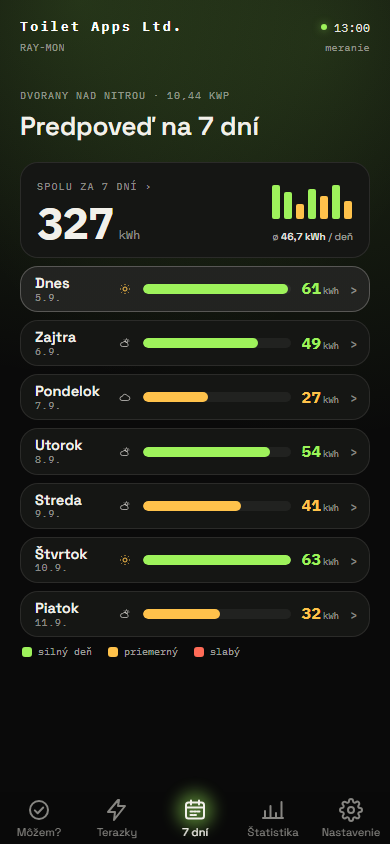
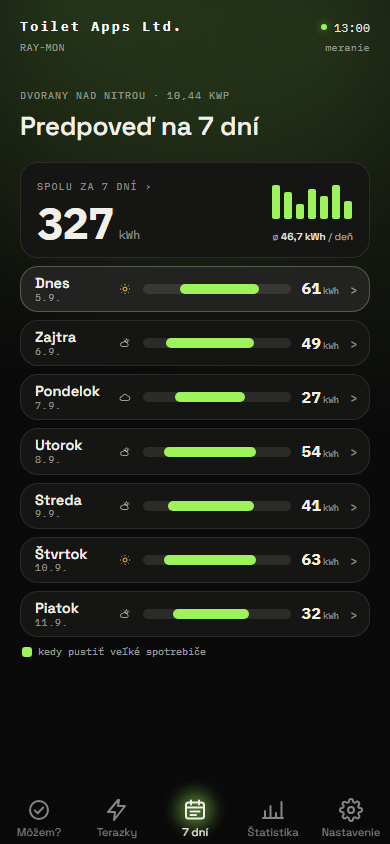
feat: zoznam dní v karte 7 dní farbí okná na spotrebiče ako Obloha (#286)
## Čo sa mení

Rebríček dní v karte 7 dní súčasnej appky (mobil) preberá logiku farieb
z karty 7 dní novej appky „Živá obloha“:

- **Pásik v riadku** už neukazuje výkon dňa (tretiny najsilnejšieho dňa
→ zelená/oranžová/červená). Ide cez produkčné okno dňa a zelené sú v ňom
úseky, kedy je ideálne pustiť veľké spotrebiče – zelené štvrťhodiny
plánu dňa (slnko aj tarifa). Počíta to `sunWindows` + `windowBand` zo
`shared/sedem-dni.js` nad `forecastDayPlan`, teda presne to isté ako
Obloha. Deň bez okna má pás prázdny.
- **Číslo kWh** je neutrálne, bez farby pásma.
- **Stĺpčeky v súčte týždňa**: výška ostáva výroba, zelený je deň s
aspoň jedným oknom.
- **Legenda** pod zoznamom: namiesto „silný deň / priemerný / slabý“
jedna položka „kedy pustiť veľké spotrebiče“.

Tabuľka, stĺpce a heatmapa na širokej obrazovke ostávajú bez zmeny
(farbia podľa výkonu).

Žiadny nový export ani prvok v HTML, ktorý by čítal `byId` – nasadenie
je bezpečné voči zmiešanej cache.

## Overenie

- `npm run check` – zelené
- `npm run test:e2e` – 350/350; test rebríčka teraz porovnáva zelené
úseky v DOM s modelom
- `npm run screenshots` – aktualizovaný `docs/img/7dni.png`

🤖 Generated with [Claude Code](https://claude.com/claude-code)

diff --git a/web/render/sedemdni.js b/web/render/sedemdni.js
@@ -21,9 +21,10 @@ import {
     weekStatsModel,
 } from '../../shared/chart-model.js';
 import { installedKw, powerThresholds } from '../../shared/config.js';
-import { dayHourTiers } from '../../shared/day-plan.js';
+import { dayHourTiers, forecastDayPlan } from '../../shared/day-plan.js';
 import { escapeHtml, fmt1, hourLabel, kwpText, weekDateLabel, weekDayLong, weekDayName, weekDayShort } from '../../shared/format.js';
 import { dayDetailMessage, EMPTY_MESSAGES, weekMessage } from '../../shared/messages.js';
+import { sunWindows, windowBand } from '../../shared/sedem-dni.js';
 import { localMinutes } from '../../shared/solar.js';
 import { levelTier, priceSegments } from '../../shared/tariff.js';
 import { ICON_BACK, ICON_CLOUD, ICON_NEXT, ICON_PARTLY, ICON_SUN } from '../icons.js';
@@ -164,37 +165,39 @@ function renderTableAndTabs(days, sel, dom) {
 
 /**
  * Rebríček dní - prehľad karty na mobile. Hore bublina so súčtom za týždeň (je to tlačidlo
- * a otvára detail týždňa), pod ňou karta s riadkom na deň: meno s dátumom, obloha, pásik
+ * a otvára detail týždňa), pod ňou karta s riadkom na deň: meno s dátumom, obloha, pás okien
  * a výroba. Riadok je tlačidlo, otvára detail toho dňa.
+ *
+ * Farby sú tie isté ako v karte 7 dní novej appky (shared/sedem-dni.js): pás ide cez produkčné
+ * okno dňa a zelené sú v ňom úseky, kedy je ideálne pustiť veľké spotrebiče (zelené štvrťhodiny
+ * plánu dňa - slnko aj tarifa). Deň bez okna má pás prázdny. Stĺpček dňa v súčte týždňa je
+ * zelený, keď deň nejaké okno má.
  *
  * Dnešok tu nemá vlastnú triedu: v rebríčku stojí vždy prvý a volá sa "Dnes", takže niet
  * čo zvýrazňovať. Príznak `r.today` z modelu ostáva, značí sa ním prepínač dní a tabuľka.
  * @param {ReturnType<typeof weekStatsModel>} s @param {ReturnType<typeof weekListModel>} rows
+ * @param {Array<Array<{ left: number, width: number }>>} bands zelené úseky pásu pre každý deň
  * @param {import('../dom.js').Dom} dom
  */
-function renderList(s, rows, dom) {
+function renderList(s, rows, bands, dom) {
     dom.weekListTotal.textContent = String(Math.round(s.totalKwh));
     dom.weekListAvg.textContent = `${fmt1(s.avgKwh)} kWh`;
-    // Týždeň v malom: stĺpček na deň, tá istá výška a farba ako pásik v riadku dňa.
+    // Týždeň v malom: stĺpček na deň, výška je výroba, zelený je deň s oknom.
     dom.weekListSpark.classList.toggle('hidden', !rows.length);
     writeHtml(
         dom.weekListSpark,
-        rows.map((r) => `<i class="${r.tier ? `tier-${r.tier}` : ''}" style="height:${Math.max(r.barPct, 4)}%"></i>`).join(''),
+        rows.map((r, i) => `<i class="${bands[i].length ? 'win' : ''}" style="height:${Math.max(r.barPct, 4)}%"></i>`).join(''),
         'weekSpark',
     );
     const html = rows
-        .map((r) => {
-            // Pásmo dňa nesie pásik aj číslo vedľa neho - tá istá farba a tá istá mierka
-            // ako v heatmape (viď weekDayTiers v shared/chart-model.js).
-            const tier = r.tier ? ` tier-${r.tier}` : '';
-            return (
+        .map(
+            (r, i) =>
                 `<button type="button" class="wday${r.sel ? ' sel' : ''}" data-day-index="${r.dayIndex}">` +
                 `<span class="wday-name">${escapeHtml(r.name)}<span class="wday-date">${escapeHtml(r.dateLabel)}</span></span>` +
                 skyCell(r.cloudAvgPct) +
-                `<span class="wday-bar"><i class="${tier.trim()}" style="width:${r.barPct}%"></i></span>` +
-                `<span class="wday-kwh${tier}">${r.kwh}<span class="u">kWh</span></span></button>`
-            );
-        })
+                `<span class="wday-bar">${bands[i].map((b) => `<i style="left:${b.left}%;width:${b.width}%"></i>`).join('')}</span>` +
+                `<span class="wday-kwh">${r.kwh}<span class="u">kWh</span></span></button>`,
+        )
         .join('');
     writeHtml(dom.weekList, html, 'weekList');
 }
@@ -431,7 +434,9 @@ export function renderSedemdni(state, dom) {
     renderDayAnim(detail, sel, state.weekDayDir, dom);
     const stats = weekStatsModel(days, state.pv, state.forecast ? state.forecast.tomorrowSunny : false);
     renderStats(stats, dom, !!detail);
-    renderList(stats, weekListModel(days, sel), dom);
+    const forecast = /** @type {import('../../shared/solar.js').Forecast} */ (state.forecast);
+    const bands = days.map((_, i) => windowBand(sunWindows(forecastDayPlan({ ...state, forecast }, i))));
+    renderList(stats, weekListModel(days, sel), bands, dom);
 
     // Mapa a stĺpce dostanú skutočný rozmer karty len na širokej obrazovke; na mobile si
     // plátno určia samy, aby rozloženie ostalo také, aké bolo.

diff --git a/style.css b/style.css
@@ -2277,9 +2277,9 @@ body:has(#page[data-panel='terazky']) .appbar-info {
 }
 /* Osem kariet pod sebou: bublina so súčtom za týždeň a pod ňou sedem dní, každý vo vlastnom
    ráme. Súčet a deň tak vyzerajú ako to, čím sú - dve rovnocenné tlačidlá, jedno do detailu
-   týždňa, druhé do detailu dňa - a dni sa od seba jasne oddelia. Dĺžka pásika je výroba dňa
-   voči najsilnejšiemu dňu v týždni, takže sa dni dajú porovnať očami, bez čítania čísel -
-   preto tu nie sú stĺpce Využitie a Špička, tie ostávajú v detaile dňa.
+   týždňa, druhé do detailu dňa - a dni sa od seba jasne oddelia. Pásik ukazuje, kedy v ten
+   deň pustiť veľké spotrebiče (zelené okná), takže sa dobrý deň dá nájsť očami, bez čítania
+   čísel - preto tu nie sú stĺpce Využitie a Špička, tie ostávajú v detaile dňa.
    Blok je vidno len pod 768 px; na širokej obrazovke mu renderView nechá .hidden, lebo
    tam je na prehľad miesta dosť na bubliny aj tabuľku. */
 /* Bublina so súčtom aj riadky dní sú tlačidlá, takže potrebujú späť zarovnanie a šírku,
@@ -2325,14 +2325,8 @@ body:has(#page[data-panel='terazky']) .appbar-info {
     border-radius: 2px;
     background: var(--ink-20);
 }
-.week-list-spark i.tier-green {
+.week-list-spark i.win {
     background: var(--green);
-}
-.week-list-spark i.tier-amber {
-    background: var(--amber);
-}
-.week-list-spark i.tier-red {
-    background: var(--red);
 }
 /* Šípka "›" hovorí, že bublina otvára detail týždňa. Nepotrebuje @media ako tá istá šípka
    pri bublinách vyššie - celý blok je na obrazovke len tam, kde detail existuje. */
@@ -2395,12 +2389,6 @@ body:has(#page[data-panel='terazky']) .appbar-info {
 .week-legend i.tier-green {
     background: var(--green);
 }
-.week-legend i.tier-amber {
-    background: var(--amber);
-}
-.week-legend i.tier-red {
-    background: var(--red);
-}
 .week-list {
     display: flex;
     flex-direction: column;
@@ -2452,28 +2440,20 @@ body:has(#page[data-panel='terazky']) .appbar-info {
     letter-spacing: 0.06em;
     color: var(--ink-35);
 }
+/* Pás ide cez produkčné okno dňa (HOUR_RANGE) a zelené úseky v ňom sú okná na veľké
+   spotrebiče - to isté ako .rng v novej appke. Pásik je tenký (10 px), preto plná farba. */
 .wday-bar {
+    position: relative;
     height: 10px;
     border-radius: var(--radius-pill);
-    background: var(--ink-05);
+    background: var(--ink-08);
     overflow: hidden;
 }
 .wday-bar i {
-    display: block;
-    height: 100%;
+    position: absolute;
+    top: 0;
+    bottom: 0;
     border-radius: var(--radius-pill);
-    background: color-mix(in srgb, var(--green) 45%, transparent);
-}
-/* Pásmo dňa - tá istá mierka ako v heatmape. Sýtosť sa z heatmapy nepreberá: tam je
-   jediným nosičom veľkosti, tu je ňou dĺžka pásika a slabý deň by bol krátky aj vyblednutý.
-   Pásik je tenký (10 px), preto plná farba - priesvitná by na ňom zanikla. */
-.wday-bar i.tier-red {
-    background: var(--red);
-}
-.wday-bar i.tier-amber {
-    background: var(--amber);
-}
-.wday-bar i.tier-green {
     background: var(--green);
 }
 .wday-kwh {
@@ -2483,15 +2463,6 @@ body:has(#page[data-panel='terazky']) .appbar-info {
     min-width: 40px;
     text-align: right;
     white-space: nowrap;
-}
-.wday-kwh.tier-red {
-    color: var(--red);
-}
-.wday-kwh.tier-amber {
-    color: var(--amber);
-}
-.wday-kwh.tier-green {
-    color: var(--green);
 }
 .wday-kwh .u {
     font-family: var(--font-mono);

diff --git a/test/e2e/app.spec.js b/test/e2e/app.spec.js
@@ -2,7 +2,7 @@
 // doménovou logikou (shared/), takže test chytí rozdiel medzi modelom a tým, čo je v DOM.
 import { expect, test } from '@playwright/test';
 import AxeBuilder from '@axe-core/playwright';
-import { RING, ringPercent, usePct, visibleHours, weekDayTiers, weekListModel, WEEK_HOURS } from '../../shared/chart-model.js';
+import { RING, ringPercent, usePct, visibleHours, weekDayTiers, WEEK_HOURS } from '../../shared/chart-model.js';
 import {
     ALL_MONTHS,
     APP_URL,
@@ -26,7 +26,8 @@ import {
     WORKER_PV_URL,
 } from '../../shared/config.js';
 import * as config from '../../shared/config.js';
-import { dayHourTiers } from '../../shared/day-plan.js';
+import { dayHourTiers, forecastDayPlan } from '../../shared/day-plan.js';
+import { sunWindows, windowBand } from '../../shared/sedem-dni.js';
 import { heroModel } from '../../shared/hero-model.js';
 import { fmt1, fmtSum, hourLabel, kwpText, minutesToTimeStr, weekDayLong } from '../../shared/format.js';
 import { PANELS } from '../../web/dom.js';
@@ -546,21 +547,23 @@ test('7 dní na mobile: prehľad dní, detail dňa a návrat späť', async ({ p
     await expect(page.locator('#week-day-head')).toBeHidden();
     expect(await viditelneBloky(page)).toEqual(['week-block-list']);
 
-    // Dĺžka pásika je výroba dňa voči najsilnejšiemu dňu - očakávanie sa počíta tou istou
-    // funkciou ako v appke, takže test chytí rozdiel medzi modelom a tým, čo je v DOM.
-    for (const r of weekListModel(forecast.days, 0))
-        await expect(page.locator(`#week-list [data-day-index="${r.dayIndex}"] .wday-bar i`)).toHaveAttribute(
-            'style',
-            `width:${r.barPct}%`,
-        );
-
-    // Pásmo dňa (farba heatmapy) nesie pásik aj číslo. Očakávanie sa počíta tou istou
-    // funkciou ako v appke, takže test chytí rozdiel medzi mierkou modelu a farbou v DOM.
-    for (const [i, tier] of weekDayTiers(forecast.days).entries()) {
+    // Pás dňa ukazuje okná na veľké spotrebiče - tie isté zelené úseky ako v novej appke.
+    // Očakávanie sa počíta tou istou funkciou ako v appke, takže test chytí rozdiel medzi
+    // modelom a tým, čo je v DOM. Číslo kWh už farbu nenesie.
+    const vstup = { ...OWNER, now: FIXED_NOW, pv, forecast: forecastAt(FIXED_NOW) };
+    for (let i = 0; i < 7; i++) {
         const riadok = page.locator(`#week-list [data-day-index="${i}"]`);
-        await expect(riadok.locator('.wday-bar i')).toHaveClass(tier ? `tier-${tier}` : '');
-        await expect(riadok.locator('.wday-kwh')).toHaveClass(tier ? `wday-kwh tier-${tier}` : 'wday-kwh');
+        const band = windowBand(sunWindows(forecastDayPlan(vstup, i)));
+        const vStranke = await riadok.locator('.wday-bar i').evaluateAll((els) =>
+            els.map((el) => ({
+                left: parseFloat(/** @type {HTMLElement} */ (el).style.left),
+                width: parseFloat(/** @type {HTMLElement} */ (el).style.width),
+            })),
+        );
+        expect(vStranke).toEqual(band);
+        await expect(riadok.locator('.wday-kwh')).toHaveClass('wday-kwh');
     }
+    expect(await page.locator('#week-list .wday-bar i').count()).toBeGreaterThan(0);
 
     // Klik na deň otvorí jeho detail: tri čísla dňa, stĺpce po hodinách a odporúčanie.
     await page.locator('#week-list [data-day-index="5"]').click();

diff --git a/index.html b/index.html
@@ -452,12 +452,10 @@
                             <span class="week-list-spark hidden" id="week-list-spark" aria-hidden="true"></span>
                         </button>
                         <div class="week-list" id="week-list"></div>
-                        <!-- Legenda farieb dňa: tá istá mierka ako v heatmape (weekDayTiers v
-                             shared/chart-model.js) - tretiny najsilnejšieho dňa týždňa. -->
+                        <!-- Legenda pásu dňa: zelené úseky sú okná na veľké spotrebiče, to isté
+                             ako v karte 7 dní novej appky (sunWindows v shared/sedem-dni.js). -->
                         <div class="week-legend">
-                            <span><i class="tier-green"></i>silný deň</span>
-                            <span><i class="tier-amber"></i>priemerný</span>
-                            <span><i class="tier-red"></i>slabý</span>
+                            <span><i class="tier-green"></i>kedy pustiť veľké spotrebiče</span>
                         </div>
                     </section>
                     <div class="msg-block" id="week-msg-block">
